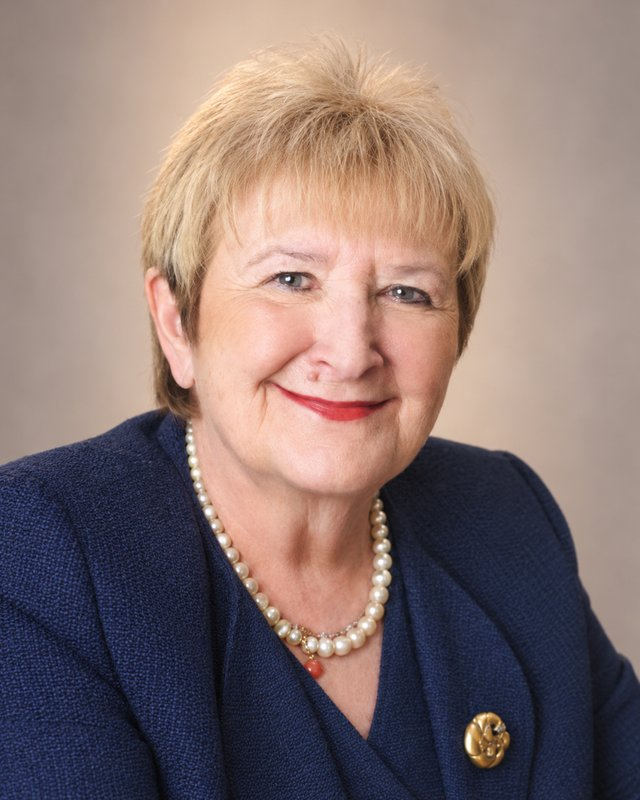
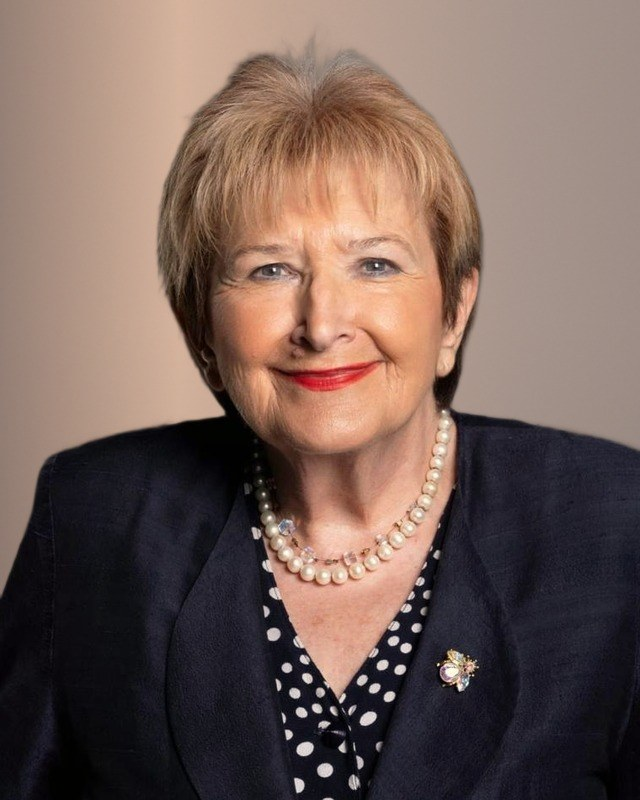
Redovito članstvo samo na upit, ublaženi opisi članstva, sve prijave po novoj odluci, promjena paketa u administraciji, nova Vidina fotografija
Claude-Session: https://claude.ai/code/session_01159KqeiWfCtGeqwJgoURcC

diff --git a/templates/index.html b/templates/index.html
@@ -45,7 +45,7 @@
 
 <section class="band" id="poziv">
   <div class="wrap letter">
-    <div class="frame"><img src="{{ url_for('static', filename='img/vida.webp') }}" width="640" height="800" alt="{{ t.letter_photo_alt }}" loading="lazy"></div>
+    <div class="frame"><img src="{{ url_for('static', filename='img/vida.webp') }}?v=3" width="640" height="800" alt="{{ t.letter_photo_alt }}" loading="lazy"></div>
     <div class="quote">
       <p class="letter-label">{{ t.letter_h }}</p>
       {% for p in t.letter_p %}<p{% if loop.first %} class="lead-q"{% endif %}>{{ p }}</p>{% endfor %}
@@ -77,11 +77,11 @@
     <div class="member-info">
       <div class="sec-head"><h2>{{ t.member_h }}</h2><p>{{ t.member_p }}</p></div>
       <div class="fees">
-        {% for amt, label, note in t.fees %}<div class="fee{{ ' fee-main' if loop.first }}"><span class="amt">{{ amt }} <small>{{ t.per_year }}</small></span><span class="fee-label">{{ label }}</span><span class="fee-note">{{ note }}</span></div>{% endfor %}
+        {% for amt, label, note in t.fees %}<div class="fee{{ ' fee-main' if loop.first }}"><span class="amt">{{ amt }} <small>{{ t.per_year }}</small></span><span class="fee-label">{{ label }}</span>{% if note %}<span class="fee-note">{{ note }}</span>{% endif %}</div>{% endfor %}
       </div>
       <div class="types">
         <div><h3>{{ t.type_assoc_h }}</h3><p>{{ t.type_assoc_p }}</p></div>
-        <div><h3>{{ t.type_regular_h }}</h3><p>{{ t.type_regular_p }}</p></div>
+        <div><h3>{{ t.type_regular_h }}</h3><p>{{ t.type_regular_p }}</p><p>{{ t.type_regular_contact }} <a href="mailto:{{ cfg.ORG_EMAIL }}?subject={{ 'Redovito članstvo' if lang == 'hr' else 'Full membership' }}">{{ cfg.ORG_EMAIL }}</a></p></div>
         <p class="note">{{ t.type_honor }}</p>
       </div>
       <div>
@@ -149,7 +149,7 @@
     <div class="people">
       {% for key, name, role, bio in t.people %}
       <article class="person">
-        <div class="frame"><img src="{{ url_for('static', filename='img/' ~ key ~ '.webp') }}" width="640" height="800" alt="{{ name }}" loading="lazy"></div>
+        <div class="frame"><img src="{{ url_for('static', filename='img/' ~ key ~ '.webp') }}?v=3" width="640" height="800" alt="{{ name }}" loading="lazy"></div>
         <span class="role">{{ role }}</span>
         <h3>{{ name }}</h3>
         <p>{{ bio }}</p>

diff --git a/templates/admin/member.html b/templates/admin/member.html
@@ -27,8 +27,15 @@
     <div><label for="lg">Jezik poruka</label><select id="lg" name="lang"><option value="hr" {{ 'selected' if a.lang == 'hr' }}>hrvatski</option><option value="en" {{ 'selected' if a.lang == 'en' }}>engleski</option></select></div>
     <div><label for="nt">Interna napomena</label><input type="text" id="nt" name="admin_note" value="{{ a.admin_note or '' }}"></div>
   </div>
+  {% set pk = 'regular' if a.member_type == 'regular' else ('assoc_reduced' if a.fee_cat == 'student' else 'assoc') %}
+  <div class="row"><div><label for="pk">Članstvo i članarina</label><select id="pk" name="paket">
+    <option value="assoc" {{ 'selected' if pk == 'assoc' }}>Pridruženo – {{ cfg.FEE_ASSOC_EUR }} €</option>
+    <option value="assoc_reduced" {{ 'selected' if pk == 'assoc_reduced' }}>Pridruženo, studenti i umirovljenici – {{ cfg.FEE_REDUCED_EUR }} €</option>
+    <option value="regular" {{ 'selected' if pk == 'regular' }}>Redovito – {{ cfg.FEE_REGULAR_EUR }} €</option>
+  </select></div></div>
+  <p class="muted">Promjena članstva mijenja iznos neplaćene članarine. Već plaćene članarine ostaju kakve jesu.</p>
   <label class="chk"><input type="checkbox" name="needs_completion" value="1" {{ 'checked' if a.needs_completion }}> Treba dopunu podataka prije konačnog upisa</label>
-  <p class="muted">Vrsta: {{ 'redovito' if a.member_type == 'regular' else 'pridruženo' }} · članarina: {{ 'snižena' if a.fee_cat == 'student' else 'standardna' }} · zanimanje/interes: {{ a.interests or '–' }} · prijava: {{ a.created_at[:16]|replace('T',' ') }} ({{ a.source }})</p>
+  <p class="muted">Zanimanje/interes: {{ a.interests or '–' }} · prijava: {{ a.created_at[:16]|replace('T',' ') }} ({{ a.source }})</p>
   <div><button class="btn" type="submit">Spremi podatke</button></div>
 </form>
 

diff --git a/i18n.py b/i18n.py
@@ -7,7 +7,7 @@ T = {
   "nav_about": "O Akademiji", "nav_areas": "Područja", "nav_membership": "Članstvo", "nav_people": "Stručnjaci", "nav_contact": "Kontakt",
   "cta_join": "Postanite član", "cta_support": "Podržite naš rad",
   "hero_eyebrow": "Academia de la Vida · akademija umijeća življenja",
-  "hero_fees": "Pridruženo članstvo 50 € godišnje · studenti i umirovljenici 20 € · redovito 150 €",
+  "hero_fees": "Pridruženo članstvo 50 € godišnje · studenti i umirovljenici 20 €",
   "hero_h1_a": "Znanost, mudrost", "hero_h1_b": "i umijeće življenja.",
   "hero_lead": "Academia de la Vida otvorena je zajednica ljudi koje zanimaju zdravlje, znanje i kvalitetniji život. Stručnjaci vode sadržaj, a dobrodošli su svi koji žele učiti i sudjelovati.",
   "logo_alt": "Znak udruge Academia de la Vida: slova A i V, profil lica, maslinova grančica i val",
@@ -49,12 +49,13 @@ T = {
   "member_h": "Postanite član",
   "member_p": "Članom može postati svatko tko prihvaća Statut i ciljeve Akademije. Članarina vrijedi dvanaest mjeseci od prijema.",
   "per_year": "godišnje",
-  "fees": [("50 €", "Pridruženo članstvo", "Za većinu članova"), ("20 €", "Pridruženo članstvo", "Studenti i umirovljenici"), ("150 €", "Redovito članstvo", "Uz pravo odlučivanja u Skupštini")],
+  "fees": [("50 €", "Pridruženo članstvo", ""), ("20 €", "Pridruženo članstvo", "Studenti i umirovljenici")],
   "fee_std_label": "Pridruženo članstvo", "fee_stu_label": "Studenti i umirovljenici",
   "type_regular_h": "Redovito članstvo",
-  "type_regular_p": "Za one koji žele aktivno sudjelovati u radu i odlučivanju. Redoviti članovi čine Skupštinu te mogu birati i biti birani u tijela udruge. O prijemu odlučuje Upravni odbor.",
+  "type_regular_p": "Za one koji žele aktivno sudjelovati u radu Akademije i preuzeti dio odgovornosti za udrugu. Redoviti članovi čine Skupštinu udruge.",
+  "type_regular_contact": "Za redovito članstvo javite nam se e-mailom:",
   "type_assoc_h": "Pridruženo članstvo",
-  "type_assoc_p": "Za one koji žele pratiti i podržavati rad Akademije te sudjelovati u aktivnostima, bez prava odlučivanja u tijelima udruge.",
+  "type_assoc_p": "Za sve koji žele biti dio zajednice Akademije, sudjelovati u predavanjima, programima i drugim aktivnostima te podržavati njezin rad.",
   "type_honor": "Počasno članstvo dodjeljuje Skupština osobama osobito zaslužnim za rad Akademije.",
   "steps_h": "Kako teče učlanjenje",
   "steps": [
@@ -76,8 +77,9 @@ T = {
   "f_type": "Vrsta članstva", "f_type_regular": "Redovito", "f_type_assoc": "Pridruženo",
   "f_fee": "Članarina", "f_fee_std": "50 € godišnje", "f_fee_stu": "20 € godišnje, studenti i umirovljenici",
   "f_pkg": "Vrsta članstva i članarina",
-  "f_pkg_opts": [("assoc", "Pridruženo članstvo", "50 € godišnje"), ("assoc_reduced", "Pridruženo članstvo – studenti i umirovljenici", "20 € godišnje"), ("regular", "Redovito članstvo", "150 € godišnje, uz pravo odlučivanja u Skupštini")],
+  "f_pkg_opts": [("assoc", "Pridruženo članstvo", "50 € godišnje"), ("assoc_reduced", "Pridruženo članstvo – studenti i umirovljenici", "20 € godišnje")],
   "err_reduced": "snižena članarina vrijedi samo za pridruženo članstvo",
+  "err_regular_email": "za redovito članstvo javite nam se e-mailom",
   "f_interests": "Zanimanje ili područje interesa",
   "f_lang": "Jezik poruka",
   "f_statute": "Prihvaćam {statut} i ciljeve udruge Academia de la Vida.", "f_statute_link": "Statut",
@@ -168,7 +170,7 @@ T = {
   "nav_about": "About", "nav_areas": "Areas", "nav_membership": "Membership", "nav_people": "Experts", "nav_contact": "Contact",
   "cta_join": "Become a member", "cta_support": "Support our work",
   "hero_eyebrow": "Academia de la Vida · Academy of the Art of Living",
-  "hero_fees": "Associate membership €50 per year · students and retirees €20 · full €150",
+  "hero_fees": "Associate membership €50 per year · students and retirees €20",
   "hero_h1_a": "Science, wisdom", "hero_h1_b": "and the art of living.",
   "hero_lead": "Academia de la Vida is an open community of people interested in health, knowledge and a better quality of life. Experts lead the content, and everyone who wants to learn and take part is welcome.",
   "logo_alt": "Academia de la Vida emblem: the letters A and V, a face in profile, an olive branch and a wave",
@@ -210,12 +212,13 @@ T = {
   "member_h": "Become a member",
   "member_p": "Anyone who accepts the Statute and aims of the Academia can become a member. Membership runs for twelve months from admission.",
   "per_year": "per year",
-  "fees": [("€50", "Associate membership", "For most members"), ("€20", "Associate membership", "Students and retirees"), ("€150", "Full membership", "With voting rights in the Assembly")],
+  "fees": [("€50", "Associate membership", ""), ("€20", "Associate membership", "Students and retirees")],
   "fee_std_label": "Associate membership", "fee_stu_label": "Students and retirees",
   "type_regular_h": "Full membership",
-  "type_regular_p": "For those who want to take an active part in the work and decisions of the association. Full members form the Assembly and can vote and stand for election to its bodies. Admission is decided by the Management Board.",
+  "type_regular_p": "For those who want to take an active part in the work of the Academia and share responsibility for the association. Full members form the Assembly of the association.",
+  "type_regular_contact": "For full membership, please contact us by e-mail:",
   "type_assoc_h": "Associate membership",
-  "type_assoc_p": "For those who want to follow and support the Academia and take part in its activities, without voting rights in the association's bodies.",
+  "type_assoc_p": "For everyone who wants to be part of the Academia community, take part in lectures, programmes and other activities, and support its work.",
   "type_honor": "Honorary membership is conferred by the Assembly on people who have made an outstanding contribution to the Academia.",
   "steps_h": "How joining works",
   "steps": [
@@ -237,8 +240,9 @@ T = {
   "f_type": "Type of membership", "f_type_regular": "Full", "f_type_assoc": "Associate",
   "f_fee": "Membership fee", "f_fee_std": "€50 per year", "f_fee_stu": "€20 per year, students and retirees",
   "f_pkg": "Type of membership and fee",
-  "f_pkg_opts": [("assoc", "Associate membership", "€50 per year"), ("assoc_reduced", "Associate membership – students and retirees", "€20 per year"), ("regular", "Full membership", "€150 per year, with voting rights in the Assembly")],
+  "f_pkg_opts": [("assoc", "Associate membership", "€50 per year"), ("assoc_reduced", "Associate membership – students and retirees", "€20 per year")],
   "err_reduced": "the reduced fee applies only to associate membership",
+  "err_regular_email": "for full membership, please contact us by e-mail",
   "f_interests": "Occupation or area of interest",
   "f_lang": "Language for messages",
   "f_statute": "I accept the {statut} and aims of Academia de la Vida.", "f_statute_link": "Statute",

diff --git a/tests/test_flow.py b/tests/test_flow.py
@@ -195,7 +195,7 @@ def test_decision_requires_confirmation(env):
     assert con.execute("SELECT app_status FROM applications").fetchone()[0] == "submitted"
 
 
-@pytest.mark.parametrize("fee,cents", [("assoc", 5000), ("assoc_reduced", 2000), ("regular", 15000)])
+@pytest.mark.parametrize("fee,cents", [("assoc", 5000), ("assoc_reduced", 2000)])
 def test_admission_notice_and_codes(env, fee, cents):
     app, c, con = env
     tok, aid = full_admission(app, c, con, paket=fee, ime="Ivana Šimić-Đurić")
@@ -382,7 +382,7 @@ def test_donation_code_visible_without_click(env):
     assert text.split("\n")[2] == "000000000002000"
 
 
-@pytest.mark.parametrize("fee,cents", [("assoc", 5000), ("assoc_reduced", 2000), ("regular", 15000)])
+@pytest.mark.parametrize("fee,cents", [("assoc", 5000), ("assoc_reduced", 2000)])
 def test_immediate_payment_after_application(env, fee, cents):
     app, c, con = env
     r = c.post("/api/prijava", data=form(paket=fee))
@@ -461,7 +461,11 @@ def test_fee_packages_and_legacy_price(env):
     assert S2.fee_cents(app.config, old) == 5000 and S2.fee_cents(app.config, new) == 15000
     assert S2.fee_cents(app.config, old, current=True) == 15000   # obnova po važećoj odluci
     html = c.get("/").get_data(as_text=True)
-    assert "150 €" in html and "Pridruženo članstvo – studenti i umirovljenici" in html
+    assert "150 €" not in html and "Pridruženo članstvo – studenti i umirovljenici" in html
+    assert 'value="regular"' not in html and "mailto:" in html
+    # redovito članstvo ne može se prijaviti preko stranice
+    r = c.post("/api/prijava", data=form(paket="regular"))
+    assert r.status_code == 400 and "err_regular_email" in r.json["errors"]
 
 
 def test_social_links_hidden_until_set(env):
@@ -470,3 +474,27 @@ def test_social_links_hidden_until_set(env):
     app.config["SOCIAL_LINKS"] = [("YouTube", "https://www.youtube.com/@primjer"), ("Facebook", "")]
     html = c.get("/").get_data(as_text=True)
     assert "Pratite nas" in html and "https://www.youtube.com/@primjer" in html and ">Facebook<" not in html
+
+
+
+def test_admin_change_package(env):
+    app, c, con = env
+    tok, aid = full_admission(app, c, con, paket="assoc")
+    a = con.execute("SELECT * FROM applications WHERE id=?", (aid,)).fetchone()
+    data = {"csrf": tok, "action": "update", "full_name": a["full_name"], "email": a["email"], "oib": a["oib"],
+            "dob": a["dob"], "lang": "hr", "paket": "regular"}
+    r = c.post(f"/admin/clan/{aid}", data=data)
+    assert r.status_code == 302
+    a = con.execute("SELECT member_type, fee_cat FROM applications WHERE id=?", (aid,)).fetchone()
+    assert tuple(a) == ("regular", "standard")
+    assert con.execute("SELECT amount_cents FROM dues WHERE status='open'").fetchone()[0] == 15000
+
+
+def test_old_applications_pay_current_fees(env):
+    app, c, con = env
+    c.post("/api/prijava", data=form(paket="regular"))
+    c.post("/api/prijava", data=form())
+    con.execute("UPDATE applications SET member_type='regular'")
+    con.execute("UPDATE applications SET created_at='2026-10-23T10:00:00'")
+    a = con.execute("SELECT * FROM applications").fetchone()
+    assert S.fee_cents(app.config, a) == 15000

diff --git a/app.py b/app.py
@@ -454,7 +454,16 @@ def create_app(overrides=None):
                                  1 if request.form.get("needs_completion") else 0, request.form.get("admin_note") or None,
                                  request.form.get("lang") if request.form.get("lang") in ("hr", "en") else a["lang"], app_id))
                     DB.audit(con, g.admin, "update_member", a["public_no"])
-                    flash("Podaci su spremljeni.", "ok")
+                    pkg = S.PACKAGES.get(request.form.get("paket", ""))
+                    if pkg and pkg != (a["member_type"], a["fee_cat"]):
+                        con.execute("UPDATE applications SET member_type=?, fee_cat=? WHERE id=?", (pkg[0], pkg[1], app_id))
+                        a2 = con.execute("SELECT * FROM applications WHERE id=?", (app_id,)).fetchone()
+                        con.execute("""UPDATE dues SET amount_cents=? WHERE status='open' AND membership_id IN
+                                       (SELECT id FROM memberships WHERE application_id=?)""", (S.fee_cents(cfg, a2, current=True), app_id))
+                        DB.audit(con, g.admin, "change_package", f"{a['public_no']} {request.form.get('paket')}")
+                        flash("Podaci su spremljeni. Članstvo je promijenjeno; nova obavijest o uplati može se poslati ispod.", "ok")
+                    else:
+                        flash("Podaci su spremljeni.", "ok")
             elif action == "paid":
                 try:
                     cents = S.parse_amount(request.form.get("amount", ""))
@@ -508,7 +517,7 @@ def create_app(overrides=None):
             f = request.form
             form = dict(f)
             form.update({"statut": "1", "punoljetnost": "1", "privatnost": "1"})
-            d, errs = S.validate_application(form, f.get("jezik", "hr"))
+            d, errs = S.validate_application(form, f.get("jezik", "hr"), public=False)
             errs = [e for e in errs if e not in ("err_minor",)]
             try:
                 adm = date.fromisoformat(f.get("admitted_date", ""))

diff --git a/services.py b/services.py
@@ -90,7 +90,7 @@ def period_text(start_iso, end_iso, lang):
 
 # ------------------------------------------------------------------ prijava
 
-def validate_application(form, lang, today=None):
+def validate_application(form, lang, today=None, public=True):
     """Vraća (podaci, popis ključeva pogrešaka). Poslužitelj je mjerodavan; isto provjerava i preglednik."""
     today = today or date.today()
     g = lambda k: (form.get(k) or "").strip()
@@ -143,6 +143,8 @@ def validate_application(form, lang, today=None):
             errs.append("err_fee")
         elif d["member_type"] == "regular" and d["fee_cat"] == "student":
             errs.append("err_reduced")
+    if public and d.get("member_type") == "regular":
+        errs.append("err_regular_email")   # redovito članstvo samo na upit e-mailom
     if not form.get("statut"):
         errs.append("err_statute")
     if not form.get("punoljetnost"):

diff --git a/config.py b/config.py
@@ -48,9 +48,9 @@ class Config:
     FEE_REGULAR_EUR = 150
     FEE_ASSOC_EUR = 50
     FEE_REDUCED_EUR = 20          # samo uz pridruženo članstvo
-    # Prijave zaprimljene prije ovog datuma plaćaju po prethodnoj odluci (50 € / 20 €, neovisno o vrsti članstva)
-    FEES_V2_FROM = _env("ADV_FEES_V2_FROM", "2026-10-25")
-    FEE_STANDARD_EUR = 50         # prethodna odluka od 22. 10. 2026.
+    # Prazno = sve prijave po ovoj odluci. (Datum se upisuje samo ako bi starije prijave trebale plaćati po staroj cijeni.)
+    FEES_V2_FROM = _env("ADV_FEES_V2_FROM", "")
+    FEE_STANDARD_EUR = 50         # stara cijena, koristi se samo ako je FEES_V2_FROM postavljen
     FEE_STUDENT_EUR = 20
 
     # Društvene mreže: upisati punu adresu profila; prazno = ne prikazuje se
